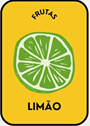
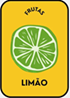
imgs
Tamanho das imagens foi reajustado

diff --git a/css/estilo.css b/css/estilo.css
@@ -67,12 +67,7 @@ h1 {
     transform: rotateY(180deg);
 }
 
-.frenteCarta {
-    border: 1px solid yellow;
-    width: 100%;
-    height: 100%;
-    background-size: cover;
-}
+
 
 #botaoreiniciar {
     border: 1px solid purple;
